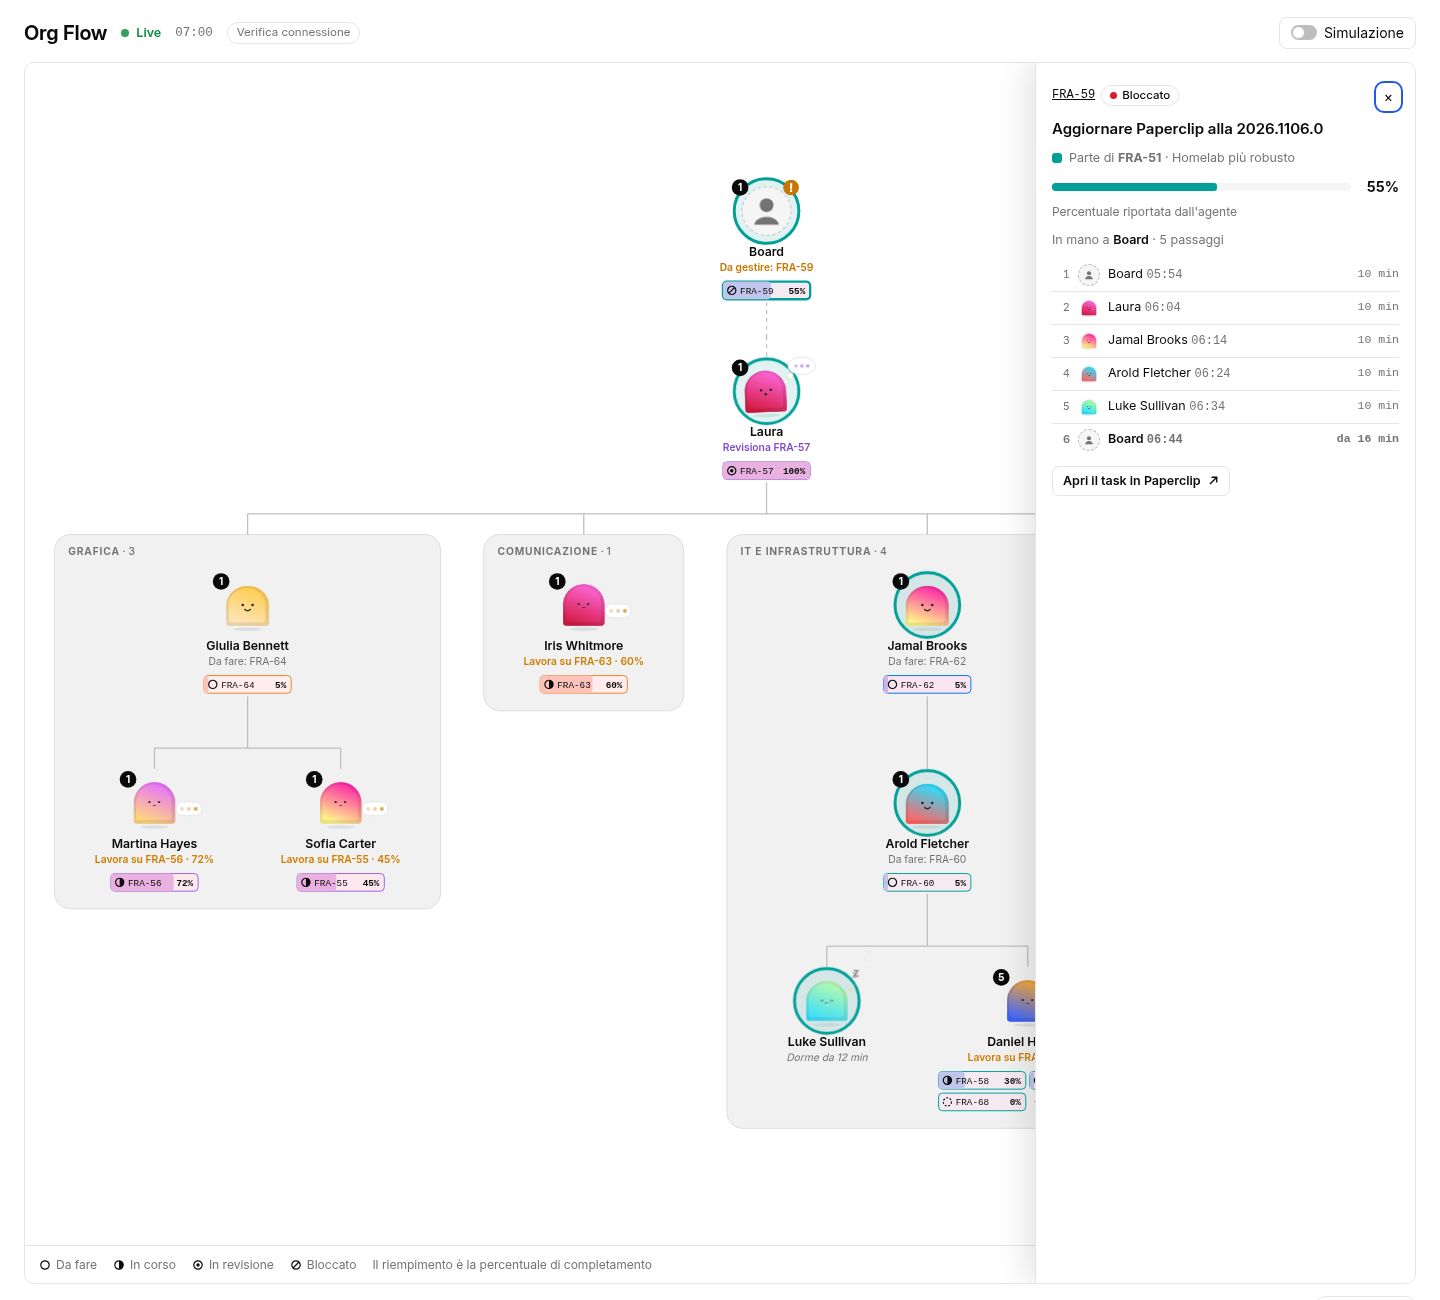
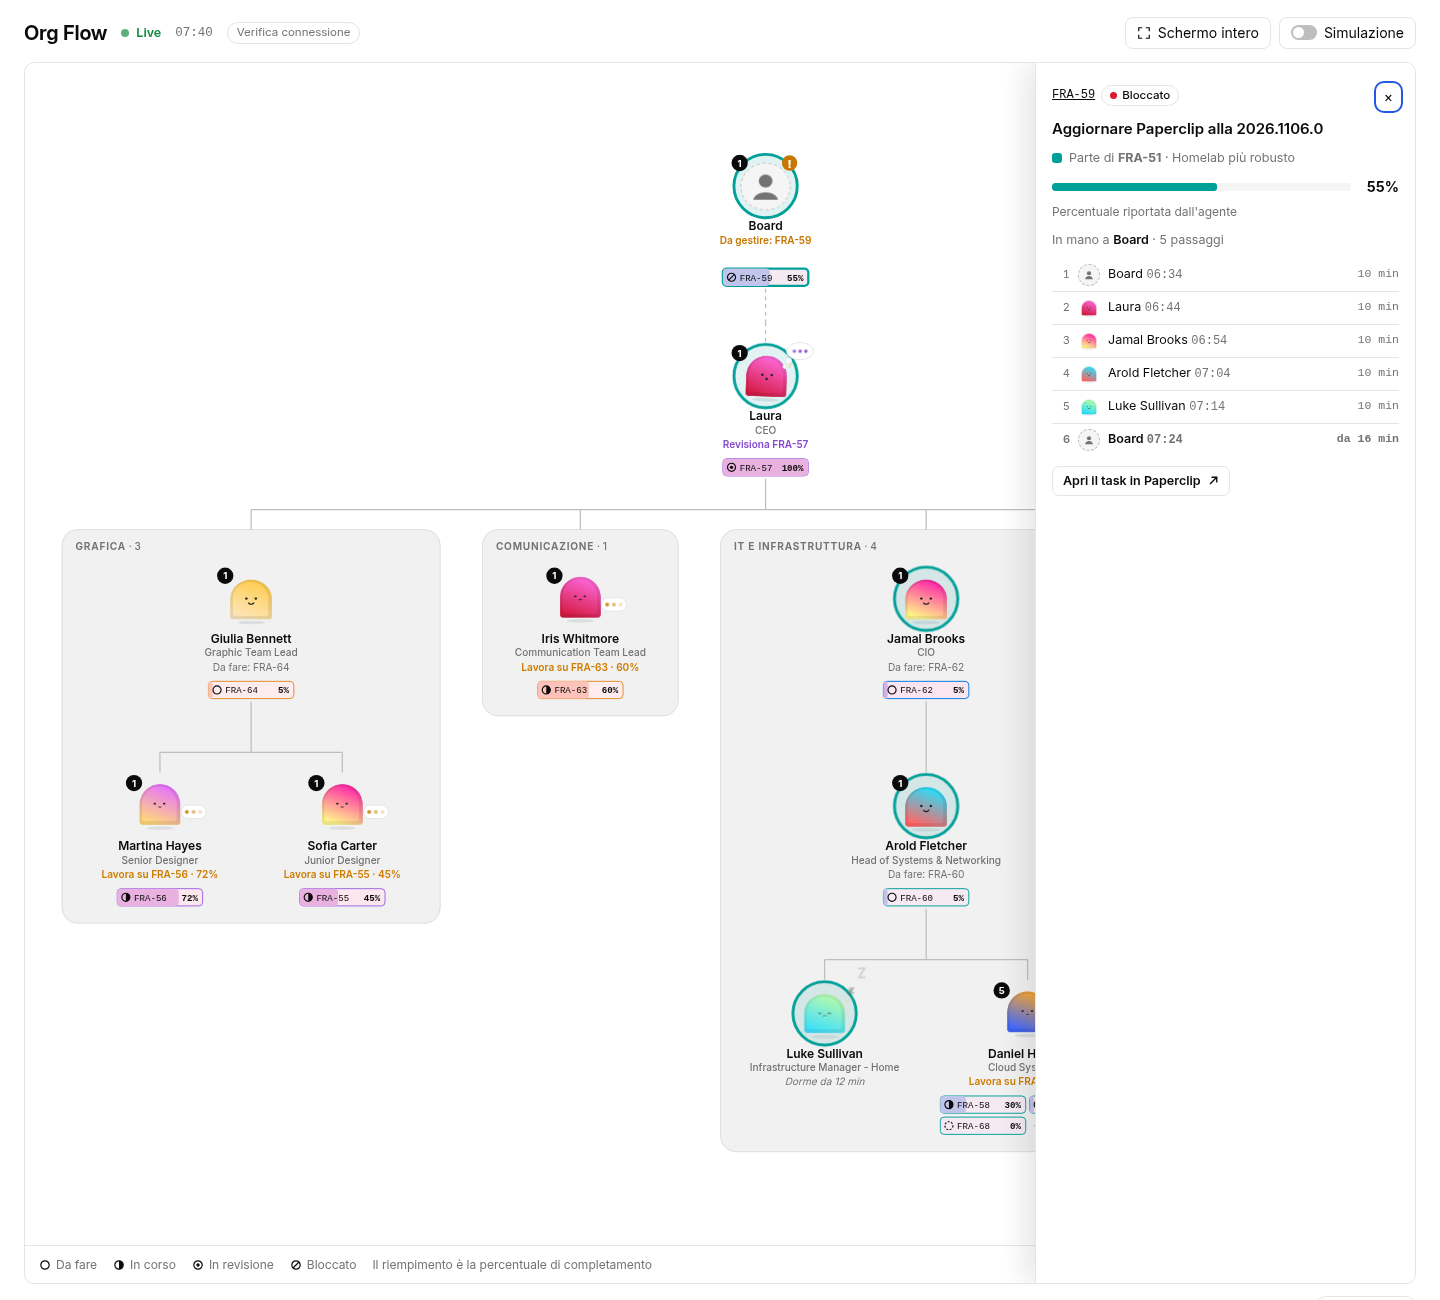
Org Flow 1.2.0: agent title under the name and Full screen button
The title comes from Paperclip (the agent's title, otherwise Paperclip's role
label, e.g. CEO). Full screen uses the browser's Fullscreen API and falls back
to an overlay page where it is not available.

diff --git a/src/ui/components/Page.tsx b/src/ui/components/Page.tsx
@@ -25,7 +25,7 @@ import {
 import { useStyles } from "../styles.js";
 import { useLiveOrgFlow } from "../useLive.js";
 import { OrgChart, StatusGlyph, type Selection } from "./OrgChart.js";
-import { Drawer, Section, useFillHeight, useSections } from "./Layout.js";
+import { Drawer, Section, useFillHeight, useFullscreen, useSections } from "./Layout.js";
 import { ActivityFeed, KpiStrip, ParentStrip, PersonCard, QuietStrip, TaskCard, type FeedContext } from "./Panels.js";
 
 const FRESH_MS = 2600;
@@ -245,7 +245,7 @@ function OrgFlowPageInner({ context }: PluginPageProps) {
     people.map((p) => `${p.id}|${p.kind}|${p.reportsTo ?? ""}|${p.name}|${held.get(p.id)?.length ?? 0}`).join("\n") +
     `#${chipW}#` + departments.map((d) => `${d.leadId}:${d.name}:${d.memberIds.length}`).join(",");
   const layout = useMemo(
-    () => layoutOrg(people.map((p) => ({ id: p.id, kind: p.kind, reportsTo: p.reportsTo, name: p.name, chipCount: held.get(p.id)?.length ?? 0, detached: p.id === OTHERS_ID })), chipW, departments),
+    () => layoutOrg(people.map((p) => ({ id: p.id, kind: p.kind, reportsTo: p.reportsTo, name: p.name, title: p.kind === "agent" ? p.title : null, chipCount: held.get(p.id)?.length ?? 0, detached: p.id === OTHERS_ID })), chipW, departments),
     // eslint-disable-next-line react-hooks/exhaustive-deps
     [layoutKey],
   );
@@ -282,7 +282,9 @@ function OrgFlowPageInner({ context }: PluginPageProps) {
   const conn = simOn ? { cls: "of-sim", text: "Simulazione" } : { cls: live.connection === "live" ? "" : live.connection === "connecting" ? "of-connecting" : "of-offline", text: CONNECTION_LABEL[live.connection] };
 
   const stageRef = useRef<HTMLElement>(null);
-  const stageHeight = useFillHeight(stageRef, !!base);
+  const rootRef = useRef<HTMLDivElement>(null);
+  const fullscreen = useFullscreen(rootRef);
+  const stageHeight = useFillHeight(stageRef, !!base, fullscreen.mode ?? "");
   const sections = useSections();
 
   /* ---------- states without data ---------- */
@@ -315,7 +317,7 @@ function OrgFlowPageInner({ context }: PluginPageProps) {
   const closeDetail = () => setSel(null);
 
   return (
-    <div className="of-root">
+    <div className={`of-root${fullscreen.mode === "overlay" ? " of-immersive" : ""}${fullscreen.mode ? " of-fs" : ""}`} ref={rootRef}>
       {live.streamTap}
       <div className="of-sr" role="status" aria-live="polite" aria-atomic="true">{announcement}</div>
       <div className="of-page of-full">
@@ -327,6 +329,14 @@ function OrgFlowPageInner({ context }: PluginPageProps) {
           <span className="of-clock" aria-label={`Ora ${clockTime(displayNow)}`}>{clockTime(displayNow)}</span>
           {!simOn && <PingButton companyId={companyId} />}
           <div className="of-controls">
+            <button type="button" className="of-btn" aria-pressed={!!fullscreen.mode} onClick={fullscreen.toggle} title={fullscreen.mode ? "Esci dallo schermo intero (Esc)" : "Mostra Org Flow a schermo intero"}>
+              <svg width="14" height="14" viewBox="0 0 24 24" fill="none" stroke="currentColor" strokeWidth="2" aria-hidden="true">
+                {fullscreen.mode
+                  ? <path d="M9 3v6H3M15 3v6h6M9 21v-6H3M15 21v-6h6" />
+                  : <path d="M3 9V3h6M21 9V3h-6M3 15v6h6M21 15v6h-6" />}
+              </svg>
+              {fullscreen.mode ? "Esci dallo schermo intero" : "Schermo intero"}
+            </button>
             {showSim && (
               <button type="button" className="of-btn" aria-pressed={simOn} onClick={() => setSimOn((v) => !v)}>
                 <span className="of-switch" aria-hidden="true" />Simulazione

diff --git a/src/ui/layout.ts b/src/ui/layout.ts
@@ -13,15 +13,18 @@
  *   between neighbouring departments. Edges coming from above stop at the top of the box.
  *
  * Node local coordinates (used by the SVG renderer): origin = centre of the character,
- * character image from y=-44 to y=20, name baseline at 34, state label at 49,
- * chips start at CHIPS_TOP.
+ * character image from y=-44 to y=20, name baseline at NAME_Y, title (from Paperclip) at TITLE_Y,
+ * state label at STATE_Y, chips start at CHIPS_TOP.
  */
 import { CHIP_GAP, CHIP_H, placeChips, type ChipPlacement } from "./chips.js";
 import { estimateTextWidth, truncateToWidth } from "./format.js";
 
 export const NODE_TOP = 56;          // space above the origin (halo, sparks, thought bubble)
-export const NODE_BASE_BOTTOM = 56;  // below the origin when the person holds no chips
-export const CHIPS_TOP = 60;         // chip block top, relative to origin
+export const NODE_BASE_BOTTOM = 70;  // below the origin when the person holds no chips
+export const NAME_Y = 34;
+export const TITLE_Y = 48;
+export const STATE_Y = 63;
+export const CHIPS_TOP = 74;         // chip block top, relative to origin
 export const NODE_ENTRY = -47;       // where incoming edges end (just above the character)
 export const NAME_FONT = 12.5;
 export const LABEL_FONT = 10.5;
@@ -47,6 +50,8 @@ export interface LayoutInput {
   kind: "agent" | "user";
   reportsTo: string | null;
   name: string;
+  /** Job title shown under the name (Paperclip title, or role label). */
+  title?: string | null;
   chipCount: number;
   /** Placed as a root but not linked to the users row (e.g. the "Altri" bucket). */
   detached?: boolean;
@@ -68,6 +73,7 @@ export interface NodeLayout {
   width: number;
   bottom: number;     // local y of the bottom edge
   name: string;       // display name, truncated to fit (the state label is truncated to `width` by the renderer)
+  title: string;       // job title from Paperclip (or role label), truncated; "" when unknown
   chips: ChipPlacement;
   parentId: string | null; // effective parent used by the layout (null for roots and users)
 }
@@ -179,7 +185,8 @@ export function layoutOrg(people: LayoutInput[], chipW: number, departments: Lay
   for (const p of people) {
     const chips = placeChips(p.chipCount, chipW, CHIP_H, CHIP_GAP);
     const name = truncateToWidth(p.name, MAX_TEXT_W, NAME_FONT, true);
-    const width = Math.ceil(Math.max(MIN_NODE_W, estimateTextWidth(name, NAME_FONT, true) + 12, chips.width + 8));
+    const title = p.title ? truncateToWidth(p.title, MAX_TEXT_W, LABEL_FONT) : "";
+    const width = Math.ceil(Math.max(MIN_NODE_W, estimateTextWidth(name, NAME_FONT, true) + 12, title ? estimateTextWidth(title, LABEL_FONT) + 12 : 0, chips.width + 8));
     nodes[p.id] = {
       id: p.id,
       kind: p.kind,
@@ -189,6 +196,7 @@ export function layoutOrg(people: LayoutInput[], chipW: number, departments: Lay
       width,
       bottom: chips.height ? CHIPS_TOP + chips.height : NODE_BASE_BOTTOM,
       name,
+      title,
       chips,
       parentId: p.kind === "agent" ? parentOf.get(p.id) ?? null : null,
     };

diff --git a/src/ui/components/Layout.tsx b/src/ui/components/Layout.tsx
@@ -14,7 +14,7 @@ function scrollParent(el: HTMLElement): HTMLElement | null {
 }
 
 /** Height (px) that makes the element fill the visible viewport below its top edge. */
-export function useFillHeight(ref: RefObject<HTMLElement | null>, ready: boolean): number | null {
+export function useFillHeight(ref: RefObject<HTMLElement | null>, ready: boolean, mode: string = ""): number | null {
   const [h, setH] = useState<number | null>(null);
   useLayoutEffect(() => {
     const el = ref.current;
@@ -30,8 +30,42 @@ export function useFillHeight(ref: RefObject<HTMLElement | null>, ready: boolean
     compute();
     window.addEventListener("resize", compute);
     return () => window.removeEventListener("resize", compute);
-  }, [ref, ready]);
+  }, [ref, ready, mode]);
   return h;
+}
+
+export type FullscreenMode = "native" | "overlay" | null;
+
+/**
+ * Full screen for the plugin page. Uses the browser Fullscreen API on `ref`; where it is missing or
+ * refused (e.g. iPhone Safari) falls back to an "overlay" mode: the page covers the whole Paperclip
+ * UI with position:fixed (CSS class `of-immersive`). Esc or `toggle()` leaves either mode.
+ */
+export function useFullscreen(ref: RefObject<HTMLElement | null>): { mode: FullscreenMode; toggle: () => void } {
+  const [mode, setMode] = useState<FullscreenMode>(null);
+  useEffect(() => {
+    if (typeof document === "undefined") return;
+    const onChange = () => setMode((m) => (document.fullscreenElement && document.fullscreenElement === ref.current ? "native" : m === "native" ? null : m));
+    document.addEventListener("fullscreenchange", onChange);
+    return () => document.removeEventListener("fullscreenchange", onChange);
+  }, [ref]);
+  useEffect(() => {
+    if (mode !== "overlay") return;
+    const onKey = (ev: globalThis.KeyboardEvent) => { if (ev.key === "Escape" && !ev.defaultPrevented) setMode(null); };
+    window.addEventListener("keydown", onKey);
+    return () => window.removeEventListener("keydown", onKey);
+  }, [mode]);
+  const toggle = useCallback(() => {
+    const el = ref.current;
+    if (mode === "native") { void document.exitFullscreen?.().catch(() => setMode(null)); return; }
+    if (mode === "overlay") { setMode(null); return; }
+    if (el && typeof el.requestFullscreen === "function" && document.fullscreenEnabled !== false) {
+      el.requestFullscreen().then(() => setMode("native"), () => setMode("overlay"));
+    } else {
+      setMode("overlay");
+    }
+  }, [mode, ref]);
+  return { mode, toggle };
 }
 
 /**

diff --git a/src/ui/components/OrgChart.tsx b/src/ui/components/OrgChart.tsx
@@ -2,7 +2,7 @@ import { useEffect, useId, useLayoutEffect, useRef, useState, type CSSProperties
 import { POSE_FOR_STATE, type PersonView, type TaskView } from "../../shared/types.js";
 import { CHIP_CODE_X, CHIP_H, CHIP_PAD_R, chipCodeRoom, chipCodeWidth } from "../chips.js";
 import { clampPercent, poseUrl, statusLabel, taskCode, tint, truncateToWidth } from "../format.js";
-import { CHIPS_TOP, DEPT_LABEL_INSET, DEPT_LABEL_Y, LABEL_FONT, type OrgLayout } from "../layout.js";
+import { CHIPS_TOP, DEPT_LABEL_INSET, DEPT_LABEL_Y, LABEL_FONT, NAME_Y, STATE_Y, TITLE_Y, type OrgLayout } from "../layout.js";
 import { OTHERS_ID } from "../model.js";
 import { rovingNext } from "../poll.js";
 import { fitScale } from "../viewport.js";
@@ -317,8 +317,8 @@ export function OrgChart(props: OrgChartProps) {
                   style={isTouched && touchColor ? ({ ["--of-tc" as string]: touchColor } as CSSProperties) : undefined}
                 >
                   <title>{`${p.name}${p.title ? ` · ${p.title}` : ""}`}</title>
-                  <rect className="of-hit" x={-half} y={-52} width={n.width} height={108} />
-                  <rect className="of-focus" x={-half + 1} y={-53} width={n.width - 2} height={110} rx={10} />
+                  <rect className="of-hit" x={-half} y={-52} width={n.width} height={122} />
+                  <rect className="of-focus" x={-half + 1} y={-53} width={n.width - 2} height={124} rx={10} />
                   <circle className="of-halo-bg" cx={0} cy={-12} r={33} />
                   <circle className="of-halo" cx={0} cy={-12} r={33} />
                   <g className="of-bob">
@@ -351,8 +351,9 @@ export function OrgChart(props: OrgChartProps) {
                       <text textAnchor="middle" dominantBaseline="central">{tasks.length > 99 ? "99+" : tasks.length}</text>
                     </g>
                   )}
-                  <text className="of-nm" textAnchor="middle" y={34}>{n.name}</text>
-                  <text className="of-stl" textAnchor="middle" y={49}>{label}</text>
+                  <text className="of-nm" textAnchor="middle" y={NAME_Y}>{n.name}</text>
+                  {n.title ? <text className="of-ttl" textAnchor="middle" y={TITLE_Y}>{n.title}</text> : null}
+                  <text className="of-stl" textAnchor="middle" y={n.title ? STATE_Y : TITLE_Y}>{label}</text>
                 </g>
                 {tasks.length > 0 && (
                   <g transform={`translate(0 ${CHIPS_TOP})`}>

diff --git a/src/ui/styles.ts b/src/ui/styles.ts
@@ -149,6 +149,9 @@ export const CSS = `
 /* main */
 /* full-page layout: compact header, chart filling the viewport, drawer over it, sections below */
 .of-page.of-full{max-width:none;padding:14px 16px 32px;gap:12px}
+.of-root:fullscreen{background:var(--of-bg);overflow-y:auto;width:100%;height:100%}
+.of-root::backdrop{background:var(--of-bg)}
+.of-root.of-immersive{position:fixed;inset:0;z-index:2147483000;background:var(--of-bg);overflow-y:auto;padding:env(safe-area-inset-top,0px) env(safe-area-inset-right,0px) env(safe-area-inset-bottom,0px) env(safe-area-inset-left,0px)}
 @media (min-width:720px){.of-page.of-full{padding:16px 24px 40px}}
 .of-head{display:flex;align-items:center;gap:8px 14px;flex-wrap:wrap;min-height:34px}
 @media (min-width:720px){.of-head{flex-wrap:nowrap}.of-head > *{flex:none}}
@@ -189,6 +192,7 @@ export const CSS = `
 .of-dept .of-dept-n{font-weight:500;letter-spacing:0}
 .of-edge.of-dashed{stroke-dasharray:4 4}
 .of-nm{fill:var(--of-fg);font-size:12.5px;font-weight:600;font-family:var(--of-font)}
+.of-ttl{font-size:10.5px;font-family:var(--of-font);fill:var(--of-muted-fg);font-weight:500}
 .of-stl{font-size:10.5px;font-family:var(--of-font);fill:var(--of-muted-fg)}
 .of-node{cursor:pointer;outline:none}
 .of-node .of-hit{fill:transparent}

diff --git a/src/worker/snapshot.ts b/src/worker/snapshot.ts
@@ -3,6 +3,7 @@
  * history/run tracking and produces the Snapshot of the data contract.
  */
 
+import { AGENT_ROLE_LABELS } from "@paperclipai/shared";
 import type {
   FeedRecord, GroupView, OrgFlowSettings, PersonView, Snapshot, TaskView,
 } from "../shared/types.js";
@@ -61,6 +62,11 @@ export function toIso(v: unknown): string | null {
   return null;
 }
 
+function roleLabel(role: string | null): string | null {
+  if (!role) return null;
+  return (AGENT_ROLE_LABELS as Record<string, string>)[role] ?? null;
+}
+
 export function toAgentLite(raw: unknown): AgentLite | null {
   const a = (raw && typeof raw === "object" ? raw : null) as Dict | null;
   const id = a && str(a.id);
@@ -69,7 +75,8 @@ export function toAgentLite(raw: unknown): AgentLite | null {
   return {
     id,
     name: str(a.name) ?? "Agente",
-    title: str(a.title),
+    // Title as set in Paperclip; if missing, Paperclip's own label for the role (e.g. ceo → "CEO").
+    title: str(a.title) ?? roleLabel(str(a.role)),
     role: str(a.role),
     reportsTo: str(a.reportsTo),
     status: str(a.status) ?? "idle",

diff --git a/tests/snapshot.spec.ts b/tests/snapshot.spec.ts
@@ -211,7 +211,11 @@ describe("host mappers", () => {
       id: "x", name: "Laura", role: "ceo", title: "", status: "idle", reportsTo: null,
       appearance: { paletteId: "cherry-pop", customAvatarAssetId: "asset-1" }, lastHeartbeatAt: new Date(NOW),
     })!;
-    expect(a).toMatchObject({ paletteId: "cherry-pop", customAvatarAssetId: "asset-1", title: null, lastHeartbeatAt: ago(0) });
+    // Empty title falls back to Paperclip's own role label (AGENT_ROLE_LABELS).
+    expect(a).toMatchObject({ paletteId: "cherry-pop", customAvatarAssetId: "asset-1", title: "CEO", lastHeartbeatAt: ago(0) });
+    expect(toAgentLite({ id: "y", name: "Giulia", role: "designer", title: "Graphic Team Lead" })!.title).toBe("Graphic Team Lead");
+    expect(toAgentLite({ id: "z", name: "Ugo", role: "something-new", title: null })!.title).toBeNull();
+    expect(toAgentLite({ id: "w", name: "Ada", role: null, title: null })!.title).toBeNull();
     expect(toAgentLite(null)).toBeNull();
   });
   it("maps issues with closedAt and a running active run", () => {

diff --git a/tests/ui-layout.spec.ts b/tests/ui-layout.spec.ts
@@ -185,3 +185,18 @@ describe("placeChips", () => {
     expect(CHIP_CODE_X + chipCodeRoom(w) + CHIP_TEXT_GAP).toBeLessThan(w - CHIP_PAD_R - 4 * CHIP_FONT * 0.6);
   });
 });
+
+describe("node titles", () => {
+  it("reserves width for a long title and keeps it on the node", () => {
+    const people: LayoutInput[] = [
+      { id: "a", kind: "agent", reportsTo: null, name: "Al", title: "Head of Systems & Networking Operations", chipCount: 0 },
+    ];
+    const l = layoutOrg(people, 76);
+    expect(l.nodes.a!.title.length).toBeGreaterThan(0);
+    expect(l.nodes.a!.width).toBeGreaterThanOrEqual(MIN_NODE_W);
+  });
+  it("has no title when none is given", () => {
+    const l = layoutOrg([{ id: "a", kind: "agent", reportsTo: null, name: "Al", chipCount: 0 }], 76);
+    expect(l.nodes.a!.title).toBe("");
+  });
+});

diff --git a/src/manifest.ts b/src/manifest.ts
@@ -5,7 +5,7 @@ import { REPORT_PROGRESS_TOOL } from "./worker/tool.js";
 const manifest: PaperclipPluginManifestV1 = {
   id: "franciuto.org-flow",
   apiVersion: 1,
-  version: "1.1.0",
+  version: "1.2.0",
   displayName: "Org Flow",
   description:
     "Organigramma live della company: chi sta lavorando a cosa, avanzamento dei task raggruppati per task padre, passaggi di mano animati e feed di attività. Include lo strumento report_progress per gli agenti.",

diff --git a/tests/manifest.spec.ts b/tests/manifest.spec.ts
@@ -11,7 +11,7 @@ describe("manifest", () => {
   });
 
   it("declares version, slots, tool and settings", () => {
-    expect(manifest.version).toBe("1.1.0");
+    expect(manifest.version).toBe("1.2.0");
     const slots = manifest.ui?.slots ?? [];
     expect(slots.map((s) => [s.type, s.exportName])).toEqual([
       ["page", "OrgFlowPage"],

diff --git a/docs/contratto-dati.md b/docs/contratto-dati.md
@@ -89,14 +89,14 @@ Le regole esatte sono in [stati-e-percentuali.md](stati-e-percentuali.md). Le po
 | `departmentId` | string \| null (facoltativo) | reparto della persona (`DepartmentView.id`); `null` per i vertici, gli utenti e gli agenti terminati |
 | `kind` | `"agent"` \| `"user"` | |
 | `name` | string | nome dell'agente; per gli utenti `"Board"`, `"Board 2"`, … in ordine di id |
-| `title` | string \| null | titolo dell'agente in Paperclip |
+| `title` | string \| null | titolo dell'agente in Paperclip; se vuoto, l'etichetta del ruolo di Paperclip (`AGENT_ROLE_LABELS`, es. `ceo` → "CEO"); `null` se manca anche il ruolo. Mostrato sotto il nome nell'organigramma |
 | `role` | string \| null | ruolo dell'agente |
 | `reportsTo` | string \| null | id del responsabile. `null` per i vertici, per gli utenti e quando il responsabile non è tra le persone mostrate |
 | `paletteId` | string \| null | palette del personaggio (`appearance.paletteId`); `null` per gli utenti |
 | `customAvatarUrl` | string \| null | `/api/assets/<id>/content` se l'agente ha una foto caricata; la UI la preferisce al personaggio |
 | `agentStatus` | string \| null | stato grezzo di Paperclip (`idle`, `running`, `paused`, `error`, `terminated`, …); `null` per gli utenti |
 | `state` | `VisualState` | stato visivo calcolato |
-| `stateLabel` | string | etichetta breve sotto il nome, es. `"Lavora su FRA-62 · 40%"` |
+| `stateLabel` | string | etichetta breve sotto il titolo (sotto il nome se il titolo manca), es. `"Lavora su FRA-62 · 40%"` |
 | `stateSince` | string \| null | da quando vale lo stato, quando ha senso |
 | `activeTaskId` | string \| null | task a cui si riferisce lo stato |
 | `lastActivityAt` | string \| null | ultima attività nota (cronologia, run, heartbeat) |

diff --git a/README.md b/README.md
@@ -10,6 +10,8 @@ Gira sull'istanza Paperclip di `ai-pi` (`https://agents.franciuto.com`). Chiave 
 
 - **Pagina `/<prefisso>/org-flow`** (in produzione `https://agents.franciuto.com/FRA/org-flow`), con link "Org Flow" nella barra laterale. In alto una riga compatta (titolo, indicatore "Live", ora, "Verifica connessione", interruttore "Simulazione"), poi:
   - l'**organigramma a tutta pagina**, largo quanto la pagina e alto quanto lo schermo, scalato per starci tutto (su telefono scorre di lato): i personaggi di Paperclip nella posa del loro stato (al lavoro, revisiona, ha ricevuto, ha chiuso, confuso, dorme, in pausa) e sotto ognuno i task in mano, con stato e percentuale;
+  - sotto ogni persona nome, titolo preso da Paperclip (o il ruolo, per esempio "CEO") e stato attuale;
+  - pulsante "Schermo intero" per vederla a tutto schermo (Esc per uscire);
   - ogni **reparto** (il sotto-albero di ciascun riporto diretto del CEO, per esempio Grafica o IT e infrastruttura) è racchiuso in un riquadro neutro con il nome e il numero di persone; il colore resta riservato ai task padre;
   - quando un task passa di mano il chip vola dal vecchio al nuovo assegnatario;
   - clic su un task o una persona: la **scheda di dettaglio** scorre sopra il bordo destro dell'organigramma (su telefono sale dal basso); si chiude con × o Esc. Task: percentuale e sua fonte, percorso tra le persone con i tempi, rimbalzi. Persona: task in mano, statistiche delle 24 ore;
